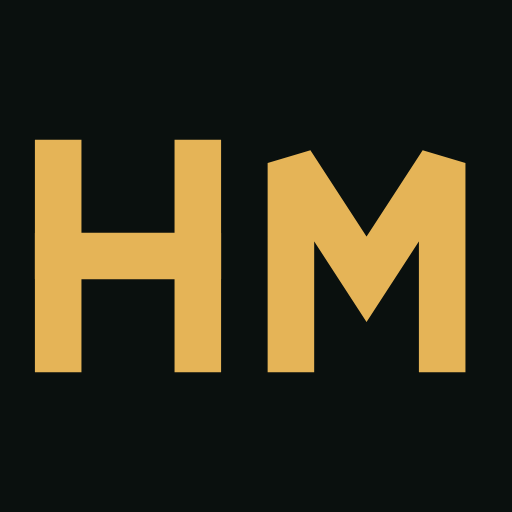
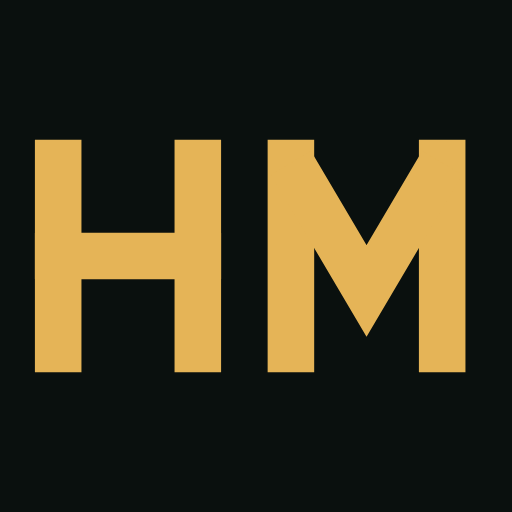
Line field replaces particles, HM letters share a cap height, drop heading periods

diff --git a/script.js b/script.js
@@ -54,55 +54,23 @@
     });
   }
 
-  /* ---- Hero particle field ----------------------------------------------
-     Drifting particles over the gradient wash, with the occasional electric
-     arc jumping between two that pass close to each other. Arcs are brief
-     sparks rather than permanent lines — it reads as charge, not cobweb. */
+  /* ---- Hero line field ---------------------------------------------------
+     A grid of short strokes that drift on their own and swing to circle the
+     pointer as it passes. Same line language as the rules under the headings. */
   (function () {
     var canvas = document.getElementById("hero-canvas");
     if (!canvas || !canvas.getContext) return;
 
     var ctx = canvas.getContext("2d");
     var w = 0, h = 0, dpr = 1;
-    var running = false, frame = 0, last = 0;
-    var particles = [];
-    var arcs = [];
+    var running = false, frame = 0, start = 0;
 
-    var ARC_RANGE = 150;    // how close two particles must pass to spark
-    var ARC_CHANCE = 0.055; // per eligible pair, per second
-    var ARC_LIFE = 300;     // ms
+    var GAP = 44;      // px between strokes
+    var LEN = 13;      // resting length of one stroke
+    var REACH = 250;   // how far the pointer's influence carries
 
-    var PULL_REACH = 250;   // how far the cursor's pull carries
-    var PULL_FORCE = 165;   // px/s² at the centre of that reach
-    var CURSOR_ARC_RANGE = 190;
-    var CURSOR_ARC_CHANCE = 1.0; // per particle in range, per second
-
-    /* live object — arcs hold a reference, so a bolt follows the cursor */
     var cursor = { x: 0, y: 0, on: false };
-
-    var rand = function (min, max) { return min + Math.random() * (max - min); };
-
-    var build = function () {
-      /* particle count scales with area, but stays sane on a phone or a 4K panel */
-      var target = Math.round((w * h) / 16000);
-      target = Math.max(26, Math.min(target, 80));
-
-      particles = [];
-      for (var i = 0; i < target; i++) {
-        particles.push({
-          x: Math.random() * w,
-          y: Math.random() * h,
-          bvx: rand(-24, 24),         // base drift, px per second
-          bvy: rand(-19, 19),
-          ivx: 0,                   // cursor-induced velocity, decays away
-          ivy: 0,
-          lit: 0,                   // 0..1, how close to the cursor
-          r: rand(0.9, 2.3),
-          hot: Math.random() < 0.3  // a few take the electric tint
-        });
-      }
-      arcs = [];
-    };
+    var glow = document.getElementById("hero-cursor");
 
     var size = function () {
       dpr = Math.min(window.devicePixelRatio || 1, 2);
@@ -112,131 +80,59 @@
       canvas.width = Math.round(w * dpr);
       canvas.height = Math.round(h * dpr);
       ctx.setTransform(dpr, 0, 0, dpr, 0, 0);
-      build();
     };
 
-    var dot = function (p) {
-      /* particles near the cursor warm toward the electric tint and brighten */
-      var core = p.hot || p.lit > 0.45 ? "63, 217, 192" : "236, 241, 236";
-      var boost = p.lit * 0.5;
-      var scale = 1 + p.lit * 0.7;
+    var paint = function (elapsed) {
+      ctx.clearRect(0, 0, w, h);
+      ctx.lineCap = "round";
 
-      ctx.fillStyle = "rgba(" + core + ", " + (0.09 + p.lit * 0.1).toFixed(3) + ")";
-      ctx.beginPath();
-      ctx.arc(p.x, p.y, p.r * 3.4 * scale, 0, Math.PI * 2);
-      ctx.fill();
-      ctx.fillStyle = "rgba(" + core + ", " + Math.min((p.hot ? 0.88 : 0.5) + boost, 1).toFixed(3) + ")";
-      ctx.beginPath();
-      ctx.arc(p.x, p.y, p.r * scale, 0, Math.PI * 2);
-      ctx.fill();
-    };
+      for (var x = GAP / 2; x < w + GAP; x += GAP) {
+        for (var y = GAP / 2; y < h + GAP; y += GAP) {
+          /* two out-of-step waves give a slow, non-repeating drift */
+          var angle = Math.sin(x * 0.011 + elapsed * 0.16) * 0.9 +
+                      Math.cos(y * 0.013 - elapsed * 0.12) * 0.9;
+          var lit = 0;
 
-    /* a jagged path between two points, so the spark looks like current */
-    var bolt = function (a, b, seed) {
-      var segs = 4;
-      ctx.beginPath();
-      ctx.moveTo(a.x, a.y);
-      for (var i = 1; i < segs; i++) {
-        var t = i / segs;
-        var mx = a.x + (b.x - a.x) * t;
-        var my = a.y + (b.y - a.y) * t;
-        /* offset perpendicular to the run, alternating side */
-        var nx = -(b.y - a.y), ny = b.x - a.x;
-        var len = Math.sqrt(nx * nx + ny * ny) || 1;
-        var jit = Math.sin(seed + i * 2.3) * 9;
-        ctx.lineTo(mx + (nx / len) * jit, my + (ny / len) * jit);
+          if (cursor.on) {
+            var dx = cursor.x - x;
+            var dy = cursor.y - y;
+            var d = Math.sqrt(dx * dx + dy * dy);
+            if (d < REACH) {
+              lit = 1 - d / REACH;
+              lit = lit * lit;
+              /* swing tangential to the pointer, so the field circles it */
+              var around = Math.atan2(dy, dx) + Math.PI / 2;
+              var diff = Math.atan2(Math.sin(around - angle), Math.cos(around - angle));
+              angle += diff * lit;
+            }
+          }
+
+          var len = LEN * (1 + lit * 1.1);
+          var cx = Math.cos(angle) * len * 0.5;
+          var cy = Math.sin(angle) * len * 0.5;
+
+          if (lit > 0.04) {
+            ctx.strokeStyle = "rgba(229, 180, 87, " + (0.18 + lit * 0.72).toFixed(3) + ")";
+            ctx.lineWidth = 1 + lit * 0.9;
+          } else {
+            ctx.strokeStyle = "rgba(236, 241, 236, 0.20)";
+            ctx.lineWidth = 1;
+          }
+
+          ctx.beginPath();
+          ctx.moveTo(x - cx, y - cy);
+          ctx.lineTo(x + cx, y + cy);
+          ctx.stroke();
+        }
       }
-      ctx.lineTo(b.x, b.y);
-      ctx.stroke();
     };
 
     var step = function (t) {
-      var dt = Math.min((t - last) / 1000, 0.05); // clamp after a tab switch
-      last = t;
-
-      ctx.clearRect(0, 0, w, h);
-
-      var damp = Math.exp(-2.1 * dt); // induced motion bleeds off when you stop
-      var i, p, dx, dy, d, d2;
-
-      for (i = 0; i < particles.length; i++) {
-        p = particles[i];
-
-        var target = 0;
-        if (cursor.on) {
-          dx = cursor.x - p.x;
-          dy = cursor.y - p.y;
-          d2 = dx * dx + dy * dy;
-          if (d2 < PULL_REACH * PULL_REACH) {
-            d = Math.sqrt(d2) || 1;
-            target = 1 - d / PULL_REACH;
-            /* ease off right at the centre so nothing collapses onto the pointer */
-            var force = PULL_FORCE * target * Math.min(d / 40, 1);
-            p.ivx += (dx / d) * force * dt;
-            p.ivy += (dy / d) * force * dt;
-          }
-        }
-        p.lit += (target - p.lit) * Math.min(dt * 6, 1);
-
-        p.ivx *= damp;
-        p.ivy *= damp;
-        p.x += (p.bvx + p.ivx) * dt;
-        p.y += (p.bvy + p.ivy) * dt;
-
-        /* wrap around the edges so the field never thins out */
-        if (p.x < -20) p.x = w + 20; else if (p.x > w + 20) p.x = -20;
-        if (p.y < -20) p.y = h + 20; else if (p.y > h + 20) p.y = -20;
-        dot(p);
-      }
-
-      /* the cursor throws its own sparks at whatever drifts near it */
-      if (cursor.on) {
-        for (i = 0; i < particles.length; i++) {
-          p = particles[i];
-          dx = cursor.x - p.x;
-          dy = cursor.y - p.y;
-          if (dx * dx + dy * dy < CURSOR_ARC_RANGE * CURSOR_ARC_RANGE &&
-              Math.random() < CURSOR_ARC_CHANCE * dt) {
-            arcs.push({ a: cursor, b: p, born: t, seed: Math.random() * 10 });
-          }
-        }
-      }
-
-      /* spark between pairs that drift close together */
-      for (i = 0; i < particles.length; i++) {
-        for (var j = i + 1; j < particles.length; j++) {
-          var a = particles[i], b = particles[j];
-          dx = a.x - b.x; dy = a.y - b.y;
-          d2 = dx * dx + dy * dy;
-          if (d2 < ARC_RANGE * ARC_RANGE && Math.random() < ARC_CHANCE * dt) {
-            arcs.push({ a: a, b: b, born: t, seed: Math.random() * 10 });
-          }
-        }
-      }
-
-      ctx.lineCap = "round";
-      for (i = arcs.length - 1; i >= 0; i--) {
-        var arc = arcs[i];
-        var age = (t - arc.born) / ARC_LIFE;
-        if (age >= 1) { arcs.splice(i, 1); continue; }
-        var fade = 1 - age;
-        ctx.strokeStyle = "rgba(63, 217, 192, " + (fade * 0.55).toFixed(3) + ")";
-        ctx.lineWidth = 1.6 * fade;
-        bolt(arc.a, arc.b, arc.seed);
-        /* a faint wide pass underneath reads as glow */
-        ctx.strokeStyle = "rgba(63, 217, 192, " + (fade * 0.13).toFixed(3) + ")";
-        ctx.lineWidth = 5 * fade;
-        bolt(arc.a, arc.b, arc.seed);
-      }
-
+      paint((t - start) / 1000);
       if (running) frame = requestAnimationFrame(step);
     };
 
-    var still = function () {
-      /* reduced motion: one static frame, no drift and no sparks */
-      ctx.clearRect(0, 0, w, h);
-      for (var i = 0; i < particles.length; i++) dot(particles[i]);
-    };
+    var still = function () { paint(0); };
 
     var stop = function () {
       running = false;
@@ -246,23 +142,17 @@
     var go = function () {
       if (running || reduceMotion) return;
       running = true;
-      last = performance.now();
+      start = performance.now();
       frame = requestAnimationFrame(step);
     };
 
     size();
-    if (reduceMotion) {
-      still();
-    } else {
-      go();
-    }
+    if (reduceMotion) { still(); } else { go(); }
 
     /* ---- Pointer ----------------------------------------------------------
        The canvas is pointer-events:none so it never eats clicks, so track on
        the window and translate into canvas space. */
     if (!reduceMotion) {
-      var glow = document.getElementById("hero-cursor");
-
       var track = function (e) {
         var rect = canvas.getBoundingClientRect();
         var x = e.clientX - rect.left;
@@ -278,22 +168,20 @@
         }
       };
 
+      var clear = function () {
+        cursor.on = false;
+        if (glow) glow.classList.remove("on");
+      };
+
       window.addEventListener("pointermove", track, { passive: true });
       window.addEventListener("pointerdown", track, { passive: true });
       /* only a finger lifting ends it — a mouse click should not */
       window.addEventListener("pointerup", function (e) {
-        if (e.pointerType === "touch") cursor.on = false;
+        if (e.pointerType === "touch") clear();
       }, { passive: true });
-      window.addEventListener("pointercancel", function () { cursor.on = false; }, { passive: true });
-      document.addEventListener("pointerleave", function () {
-        cursor.on = false;
-        if (glow) glow.classList.remove("on");
-      });
-      /* the hero scrolls out from under the pointer as often as the other way */
-      window.addEventListener("scroll", function () {
-        cursor.on = false;
-        if (glow) glow.classList.remove("on");
-      }, { passive: true });
+      window.addEventListener("pointercancel", clear, { passive: true });
+      document.addEventListener("pointerleave", clear);
+      window.addEventListener("scroll", clear, { passive: true });
     }
 
     var resizeTimer;

diff --git a/portfolio.html b/portfolio.html
@@ -31,7 +31,8 @@
       <svg class="mark-glyph" viewBox="0 0 43 32" aria-hidden="true" focusable="false">
         <g fill="none" stroke="currentColor" stroke-width="4" stroke-linecap="square" stroke-linejoin="miter" stroke-miterlimit="2.2">
           <path d="M3 8 V26"/><path d="M15 8 V26"/><path d="M3 17 H15"/>
-          <path d="M23 26 V8 L29.5 18 L36 8 V26"/>
+          <path d="M23 8 V26"/><path d="M36 8 V26"/>
+          <path d="M23 8 L29.5 19 L36 8" stroke-linecap="butt"/>
         </g>
       </svg>
       <span>Haydn McIntyre</span>
@@ -83,7 +84,7 @@
 
   <section class="wrap page-head">
     <p class="eyebrow">Portfolio</p>
-    <h2 class="h2">Projects.</h2>
+    <h2 class="h2">Projects</h2>
     <div class="bolt-rule" aria-hidden="true">
       <svg viewBox="0 0 124 18"><polyline pathLength="1" points="1,4 48,4 62,16 76,4 123,4"/></svg>
     </div>
@@ -94,7 +95,7 @@
     <div class="wrap">
       <div class="section-head reveal">
         <p class="eyebrow">Websites</p>
-        <h2 class="h2">Websites.</h2>
+        <h2 class="h2">Websites</h2>
         <div class="bolt-rule" aria-hidden="true">
           <svg viewBox="0 0 124 18"><polyline pathLength="1" points="1,4 48,4 62,16 76,4 123,4"/></svg>
         </div>
@@ -133,7 +134,7 @@
     <div class="wrap">
       <div class="section-head reveal">
         <p class="eyebrow">Web application</p>
-        <h2 class="h2">Web applications.</h2>
+        <h2 class="h2">Web applications</h2>
         <div class="bolt-rule" aria-hidden="true">
           <svg viewBox="0 0 124 18"><polyline pathLength="1" points="1,4 48,4 62,16 76,4 123,4"/></svg>
         </div>
@@ -186,7 +187,7 @@
     <div class="wrap">
       <div class="section-head reveal">
         <p class="eyebrow">Mobile app</p>
-        <h2 class="h2">Mobile apps.</h2>
+        <h2 class="h2">Mobile apps</h2>
         <div class="bolt-rule" aria-hidden="true">
           <svg viewBox="0 0 124 18"><polyline pathLength="1" points="1,4 48,4 62,16 76,4 123,4"/></svg>
         </div>
@@ -242,7 +243,7 @@
     <div class="wrap">
       <div class="section-head reveal">
         <p class="eyebrow">Skills</p>
-        <h2 class="h2">Technical skills.</h2>
+        <h2 class="h2">Technical skills</h2>
         <div class="bolt-rule" aria-hidden="true">
           <svg viewBox="0 0 124 18"><polyline pathLength="1" points="1,4 48,4 62,16 76,4 123,4"/></svg>
         </div>

diff --git a/index.html b/index.html
@@ -39,7 +39,8 @@
       <svg class="mark-glyph" viewBox="0 0 43 32" aria-hidden="true" focusable="false">
         <g fill="none" stroke="currentColor" stroke-width="4" stroke-linecap="square" stroke-linejoin="miter" stroke-miterlimit="2.2">
           <path d="M3 8 V26"/><path d="M15 8 V26"/><path d="M3 17 H15"/>
-          <path d="M23 26 V8 L29.5 18 L36 8 V26"/>
+          <path d="M23 8 V26"/><path d="M36 8 V26"/>
+          <path d="M23 8 L29.5 19 L36 8" stroke-linecap="butt"/>
         </g>
       </svg>
       <span>Haydn McIntyre</span>
@@ -106,7 +107,7 @@
     <div class="wrap">
       <div class="section-head reveal">
         <p class="eyebrow">Portfolio</p>
-        <h2 class="h2">Projects.</h2>
+        <h2 class="h2">Projects</h2>
         <div class="bolt-rule" aria-hidden="true">
           <svg viewBox="0 0 124 18"><polyline pathLength="1" points="1,4 48,4 62,16 76,4 123,4"/></svg>
         </div>
@@ -139,7 +140,7 @@
     <div class="wrap about">
       <div class="about-main reveal">
         <p class="eyebrow">About</p>
-        <h2 class="h2">Hello.</h2>
+        <h2 class="h2">Hello</h2>
         <div class="bolt-rule" aria-hidden="true">
           <svg viewBox="0 0 124 18"><polyline pathLength="1" points="1,4 48,4 62,16 76,4 123,4"/></svg>
         </div>
@@ -170,7 +171,7 @@
     <div class="wrap">
       <div class="section-head reveal">
         <p class="eyebrow">Services</p>
-        <h2 class="h2">What I do for you.</h2>
+        <h2 class="h2">What I do for you</h2>
         <div class="bolt-rule" aria-hidden="true">
           <svg viewBox="0 0 124 18"><polyline pathLength="1" points="1,4 48,4 62,16 76,4 123,4"/></svg>
         </div>
@@ -201,7 +202,7 @@
     <div class="wrap contact">
       <div class="contact-intro reveal">
         <p class="eyebrow">Contact</p>
-        <h2 class="h2">Get in touch.</h2>
+        <h2 class="h2">Get in touch</h2>
         <div class="bolt-rule" aria-hidden="true">
           <svg viewBox="0 0 124 18"><polyline pathLength="1" points="1,4 48,4 62,16 76,4 123,4"/></svg>
         </div>
